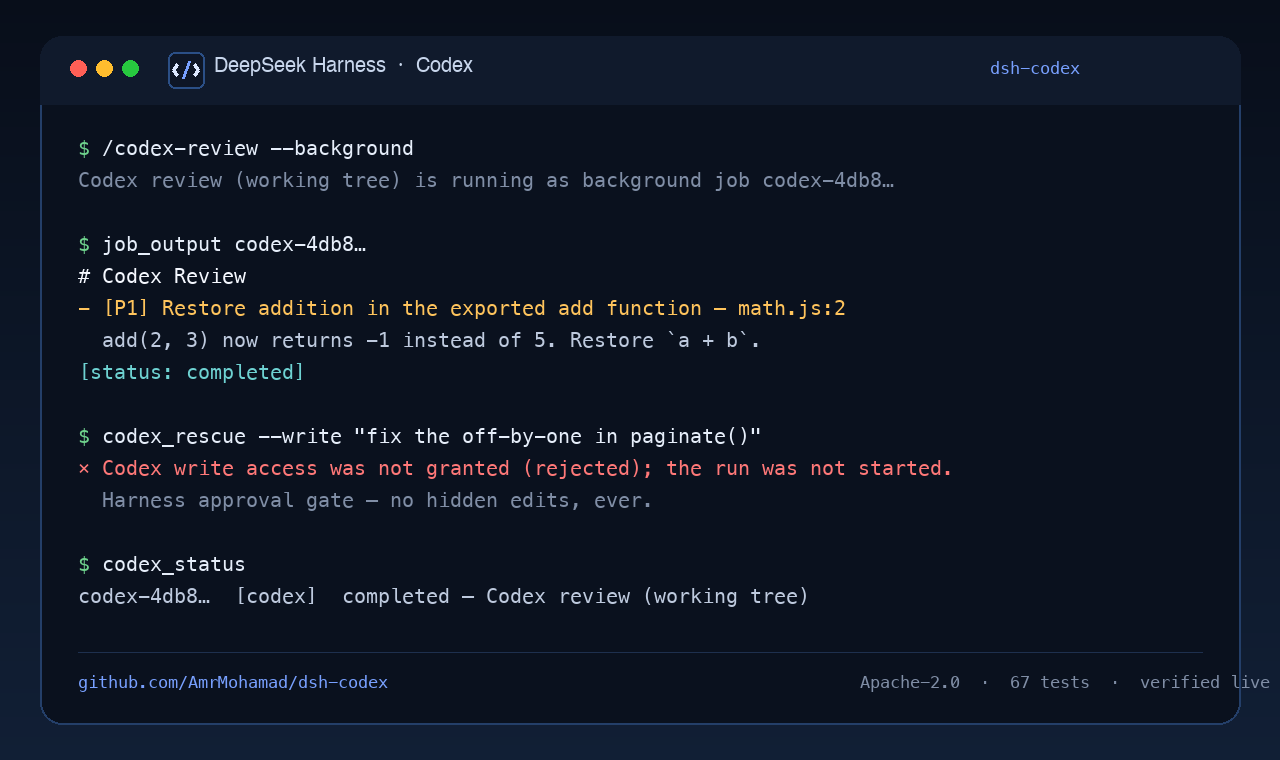
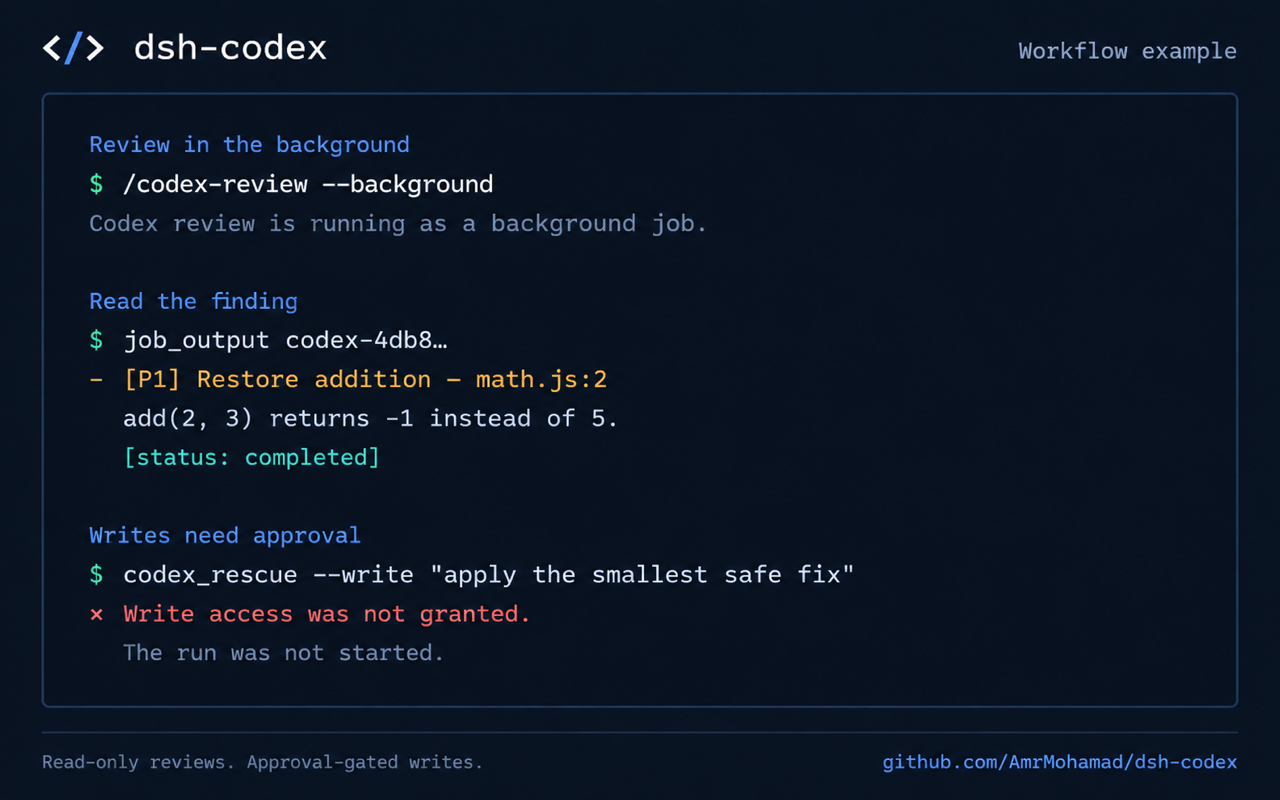
design: refine repository graphics and workflow illustration

diff --git a/README.md b/README.md
@@ -52,7 +52,7 @@ tool registry, background-job model, approval service, prompt assembly, and skil
   [The whole bloodbath is public.](docs/REVIEW.md)
 
 <p align="center">
-  <img src="docs/assets/demo.png" alt="A real dsh-codex session: a background Codex review finding a P1, a refused write run, and the durable job record" width="820" />
+  <img src="docs/assets/demo.png" alt="Illustrated dsh-codex workflow: start a background review, read a P1 finding, and see a write request refused when approval is not granted" width="820" />
 </p>
 
 ## 60-second tour
